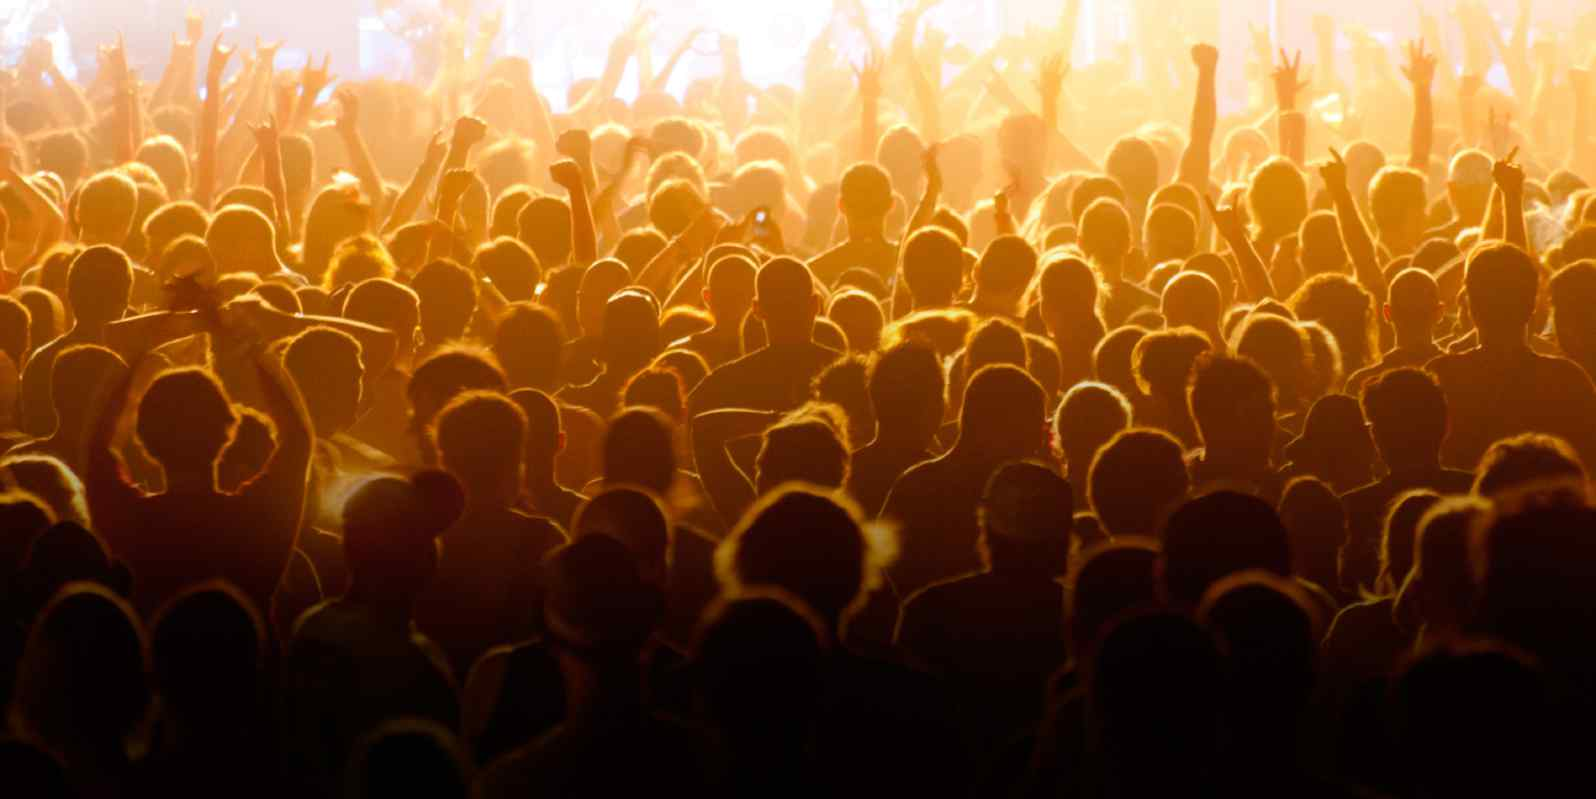
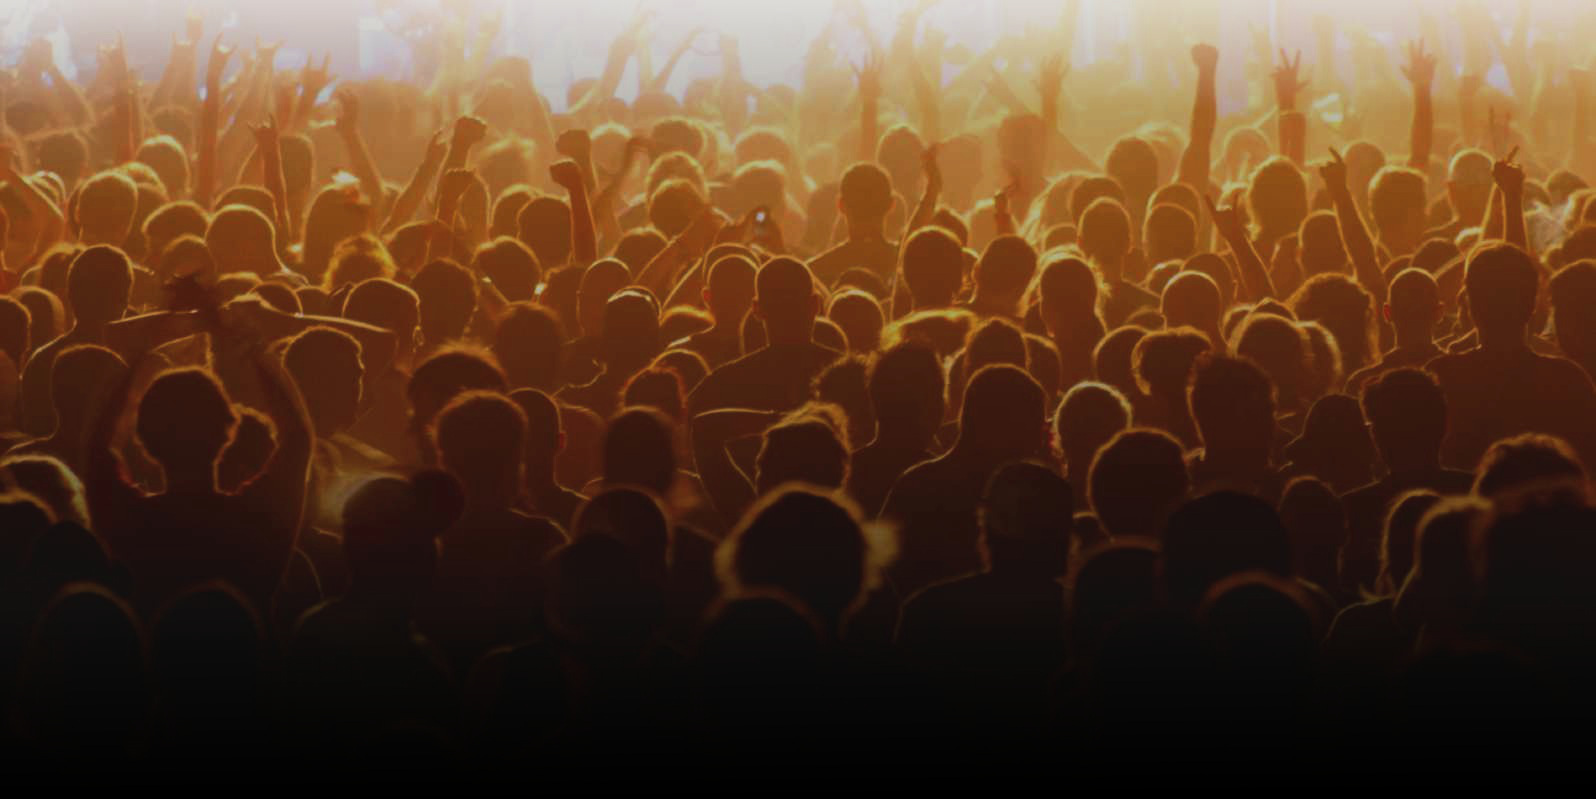
Changed header picture

diff --git a/sites/all/themes/cress/style.css b/sites/all/themes/cress/style.css
@@ -18,7 +18,7 @@ h2 a {color: #ae2101; text-decoration: none; line-height: 25px;}
 #main{width:100%; float:left; background:url(images/man_group_bg.jpg) no-repeat right bottom; min-width:1008px }
 
 #outer_header{width:100%; float:left; height:661px;}
-#innarpage_header{width:100%; float:left; background:url(images/header_bg.jpg) no-repeat center 0; height:799px;}
+#innarpage_header{width:100%; float:left; background: #fff no-repeat center 0; height:799px;}
 #header{width:1008px; float:left;}
 #header .logo{float:left; margin:28px 0 0 0;}
 #header .logo.mar{margin-top:150px;}

diff --git a/sites/all/themes/cress/page.tpl.php b/sites/all/themes/cress/page.tpl.php
@@ -98,6 +98,6 @@
 </div>
 <script type="text/javascript">
   jQuery(document).ready(function() {
-    jQuery("#outer_header, #innarpage_header").backstretch("/sites/all/themes/cress/images/header_bg.jpg");
+    //jQuery("#outer_header, #innarpage_header").backstretch("/sites/all/themes/cress/images/header_bg.jpg");
   });
 </script>
